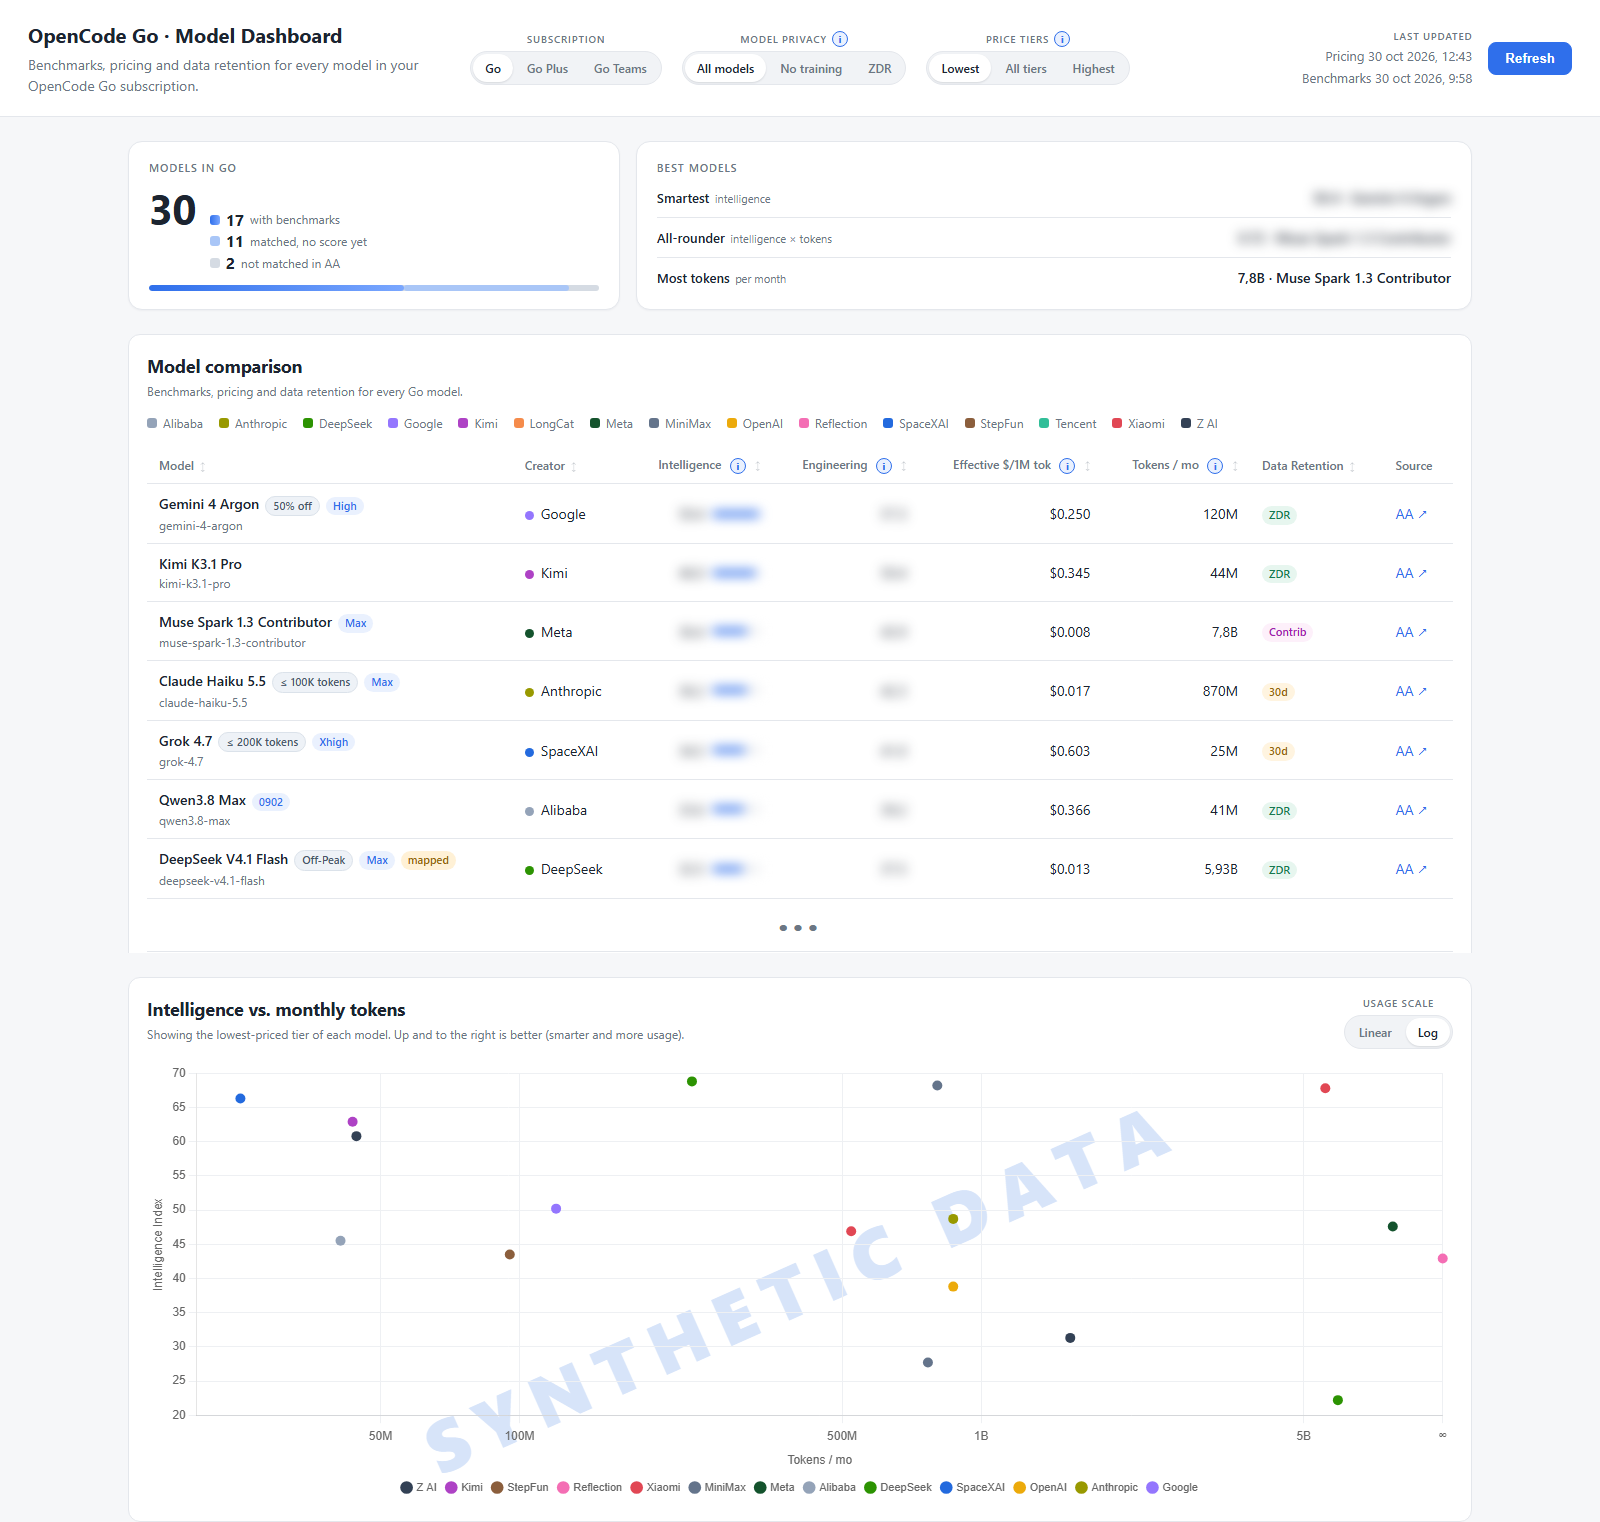
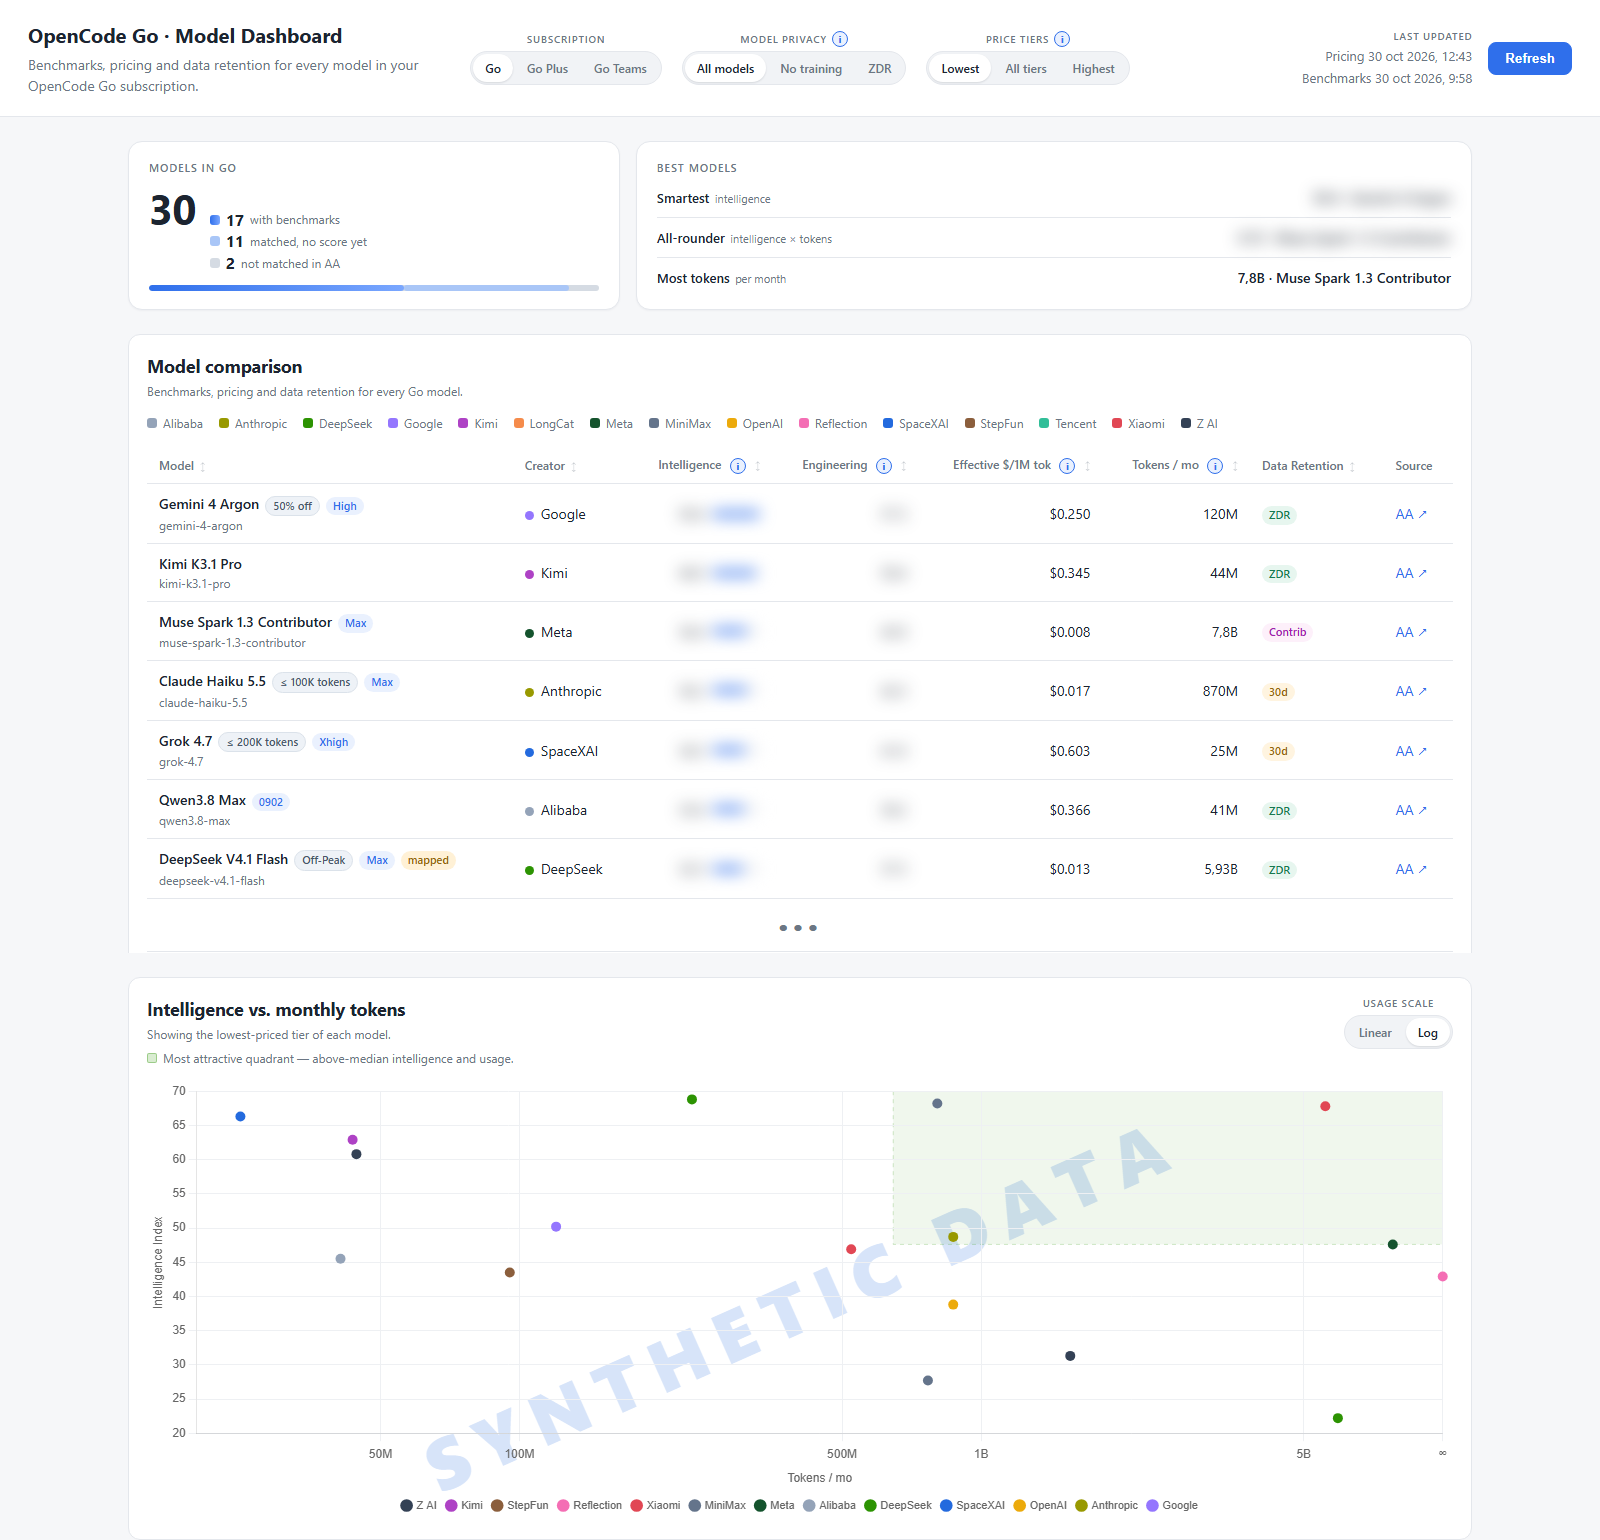
Add most attractive quadrant and refresh README screenshot

diff --git a/public/app.js b/public/app.js
@@ -453,6 +453,14 @@ function renderCharts(rows) {
     ? niceCeil(Math.max(...finiteTokens, 1) * 1.15)
     : null;
 
+  const intelligenceValues = points
+    .map((m) => m.metrics.intelligence)
+    .filter((v) => v != null);
+  const quadrant =
+    points.length >= 4 && finiteTokens.length > 0
+      ? { x: median(finiteTokens), y: median(intelligenceValues) }
+      : null;
+
   const usageOf = (m) => {
     const pricing = pricingOf(m);
     return isUnlimitedPricing(pricing) ? unlimitedX : pricing.monthlyTokens;
@@ -481,11 +489,14 @@ function renderCharts(rows) {
   if (sub) {
     sub.textContent =
       tierFilter === "both"
-        ? "Each dot is a price tier — dashed lines connect tiers of the same model; hollow markers are the highest-priced tier. Up and to the right is better (smarter and more usage)."
+        ? "Each dot is a price tier — dashed lines connect tiers of the same model; hollow markers are the highest-priced tier."
         : `Showing the ${
             tierFilter === "expensive" ? "highest-priced" : "lowest-priced"
-          } tier of each model. Up and to the right is better (smarter and more usage).`;
+          } tier of each model.`;
   }
+
+  const quadrantNote = el("chart-quadrant-note");
+  if (quadrantNote) quadrantNote.hidden = !quadrant;
 
   buildScatter("chart-usage", points, {
     xGetter: usageOf,
@@ -497,9 +508,53 @@ function renderCharts(rows) {
       hasUnlimited && value >= unlimitedX * 0.999 ? "∞" : fmtTokensValue(value),
     fmtY: (value) => value,
     connectors,
+    quadrant,
     showTiers: tierFilter === "both",
   });
 }
+
+const QUADRANT_FILL = "rgba(44, 147, 2, 0.07)";
+const QUADRANT_BORDER = "rgba(44, 147, 2, 0.22)";
+
+/**
+ * Shade the "most attractive" corner of the chart: above-median intelligence
+ * and above-median usage. Drawn before the scales/datasets so gridlines and
+ * points sit on top of the fill.
+ */
+const attractiveQuadrantPlugin = {
+  id: "attractiveQuadrant",
+  beforeDraw(chart) {
+    const quadrant = chart.options.plugins.attractiveQuadrant;
+    if (!quadrant || quadrant.x == null || quadrant.y == null) return;
+
+    const { ctx, chartArea, scales } = chart;
+    if (!chartArea) return;
+
+    const xPixel = scales.x.getPixelForValue(quadrant.x);
+    const yPixel = scales.y.getPixelForValue(quadrant.y);
+    if (!Number.isFinite(xPixel) || !Number.isFinite(yPixel)) return;
+
+    const left = Math.max(chartArea.left, Math.min(chartArea.right, xPixel));
+    const bottom = Math.max(chartArea.top, Math.min(chartArea.bottom, yPixel));
+    const width = chartArea.right - left;
+    const height = bottom - chartArea.top;
+    if (width <= 0 || height <= 0) return;
+
+    ctx.save();
+    ctx.fillStyle = QUADRANT_FILL;
+    ctx.fillRect(left, chartArea.top, width, height);
+
+    ctx.beginPath();
+    ctx.setLineDash([4, 4]);
+    ctx.strokeStyle = QUADRANT_BORDER;
+    ctx.lineWidth = 1;
+    ctx.moveTo(left, chartArea.top);
+    ctx.lineTo(left, bottom);
+    ctx.lineTo(chartArea.right, bottom);
+    ctx.stroke();
+    ctx.restore();
+  },
+};
 
 const tierConnectorPlugin = {
   id: "tierConnectors",
@@ -593,7 +648,7 @@ function buildScatter(canvasId, rows, opts = {}) {
   charts[canvasId] = new Chart(el(canvasId), {
     type: "scatter",
     data: { datasets },
-    plugins: [tierConnectorPlugin],
+    plugins: [attractiveQuadrantPlugin, tierConnectorPlugin],
     options: {
       responsive: true,
       maintainAspectRatio: false,
@@ -610,6 +665,7 @@ function buildScatter(canvasId, rows, opts = {}) {
           },
         },
         tierConnectors: { groups: opts.connectors ?? [] },
+        attractiveQuadrant: opts.quadrant ?? null,
         tooltip: {
           callbacks: {
             label: (ctx) => {
@@ -658,6 +714,16 @@ function buildScatter(canvasId, rows, opts = {}) {
 
 function round(v) {
   return typeof v === "number" ? Math.round(v * 100) / 100 : v;
+}
+
+/** Median of a numeric array, or null when it is empty. */
+function median(values) {
+  if (!values.length) return null;
+  const sorted = [...values].sort((a, b) => a - b);
+  const mid = Math.floor(sorted.length / 2);
+  return sorted.length % 2
+    ? sorted[mid]
+    : (sorted[mid - 1] + sorted[mid]) / 2;
 }
 
 /**

diff --git a/public/style.css b/public/style.css
@@ -411,6 +411,16 @@ td .model-id { color: var(--muted); font-size: 12px; }
 .chart-panel .panel-head { align-items: flex-start; flex-wrap: wrap; }
 .chart-panel .panel-head .panel-heading { margin-bottom: 0; }
 .chart-box { position: relative; height: 440px; }
+.chart-quadrant { display: flex; align-items: center; gap: 6px; margin-top: 4px; }
+.chart-quadrant[hidden] { display: none; }
+.quadrant-swatch {
+  width: 10px;
+  height: 10px;
+  flex: none;
+  border-radius: 2px;
+  background: rgba(44, 147, 2, 0.18);
+  border: 1px solid rgba(44, 147, 2, 0.35);
+}
 .chart-credit { margin-top: 12px; }
 
 .chips { list-style: none; display: flex; flex-wrap: wrap; gap: 8px; padding: 0; margin: 12px 0 0; }

diff --git a/public/index.html b/public/index.html
@@ -207,7 +207,11 @@
             <div class="panel-heading">
               <h2>Intelligence vs. monthly tokens</h2>
               <p id="chart-sub" class="panel-sub">
-                Each dot is a model — up and to the right is better (smarter and more usage).
+                Each dot is a model.
+              </p>
+              <p id="chart-quadrant-note" class="panel-sub chart-quadrant" hidden>
+                <span class="quadrant-swatch"></span>
+                Most attractive quadrant — above-median intelligence and usage.
               </p>
             </div>
             <div class="filter-group">

diff --git a/README.md b/README.md
@@ -6,7 +6,7 @@ A small, dependency-free dashboard that shows how the models in your **OpenCode 
 
 [![OpenCode Go model dashboard](docs/screenshot.png)](docs/screenshot.png)
 
-> **Illustrative screenshot.** Artificial Analysis benchmark values in the table are blurred, and the chart plots synthetic intelligence scores, not real benchmark results. Pricing, token allowances and retention data are real OpenCode Go data. AA's free API is for internal use only, so no AA benchmark values are reproduced in this image. See [Data sources, attribution & licensing](#data-sources-attribution--licensing).
+> **Illustrative screenshot.** Artificial Analysis benchmark values in the table are blurred, and the chart plots synthetic intelligence scores, not real results. AA's free API is for internal use only, so no AA benchmark values are reproduced in this image. See [Data sources, attribution & licensing](#data-sources-attribution--licensing).
 
 On start it:
 
@@ -116,7 +116,7 @@ Tiered rows (context-size or peak/off-peak) are kept as separate price variants.
 
 ## Matching OpenCode Go models to Artificial Analysis
 
-Names differ between the two catalogues (for example `deepseek-v4.1-flash` vs. the AA slug `deepseek-v4-1-flash`, or AA's `(High)`/`(Max)` effort variants). The matcher normalises both sides and prefers the base (non-variant) entry. If a model is not matched, add it to `overrides.json`:
+Names differ between the two catalogues (for example `qwen3.8-flash` vs. the AA slug `qwen3-8-flash-next`, or AA's `(High)`/`(Max)` effort variants). The matcher normalises both sides and prefers the base (non-variant) entry. If a model is not matched, add it to `overrides.json`:
 
 ```json
 {
